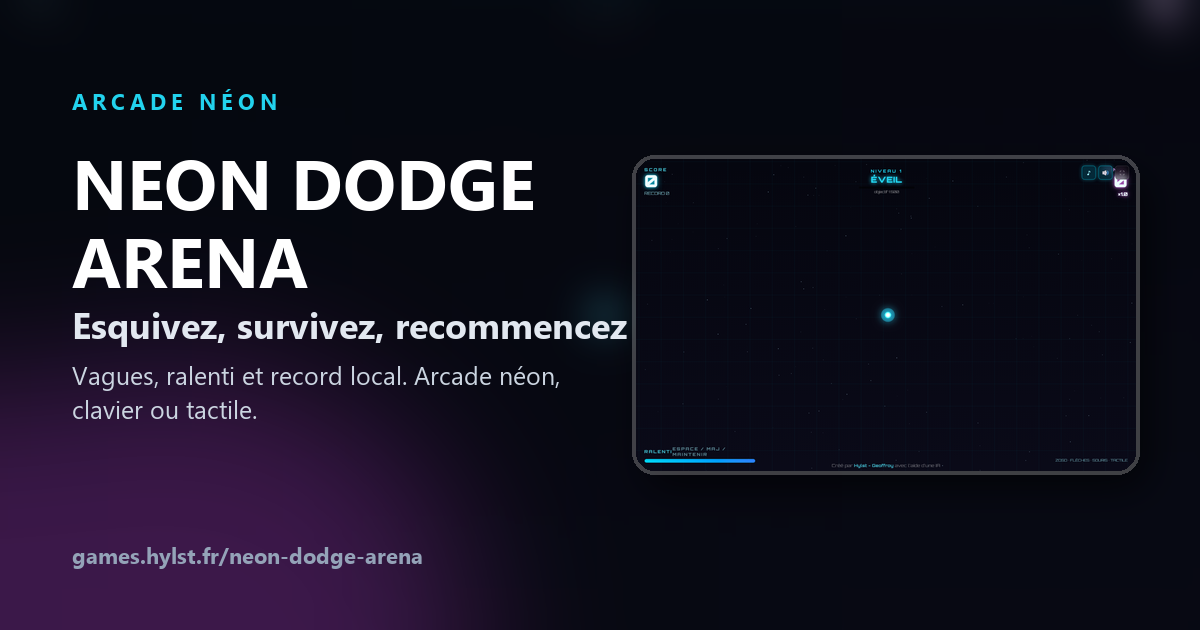
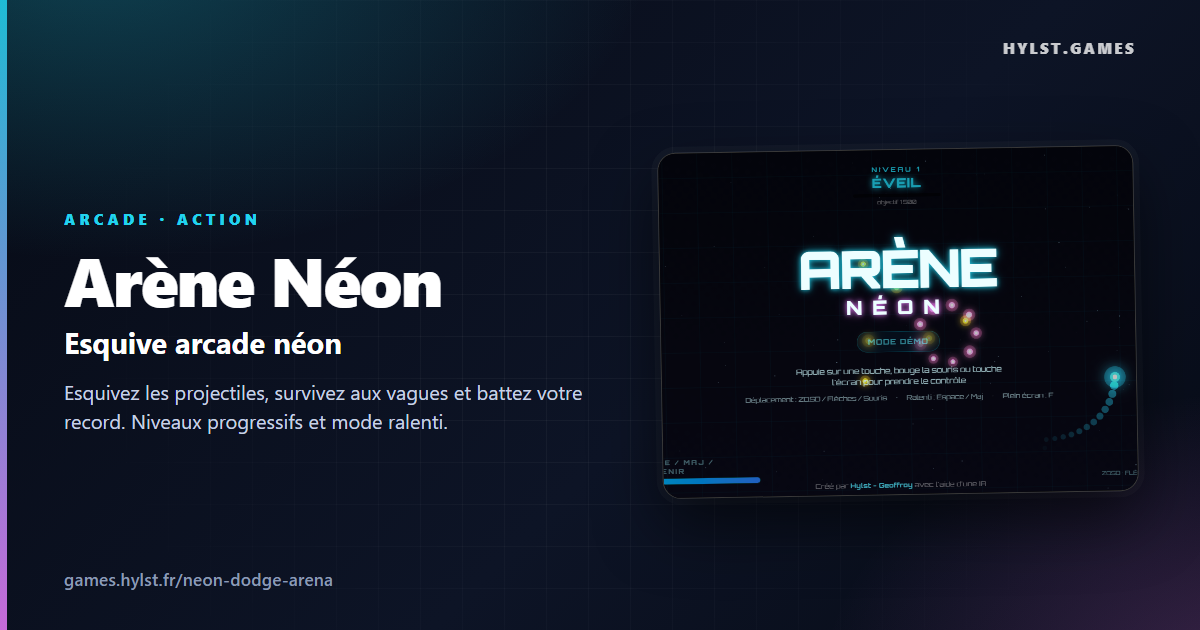
Renommage : Arène Néon

diff --git a/index.html b/index.html
@@ -3,20 +3,20 @@
   <head>
     <meta charset="UTF-8" />
     <meta name="viewport" content="width=device-width, initial-scale=1.0" />
-    <title>Neon Dodge Arena : esquive arcade néon</title>
-    <meta name="description" content="Neon Dodge Arena : esquivez les projectiles, survivez aux vagues et battez votre record. Arcade néon, niveaux progressifs et contrôle clavier ou tactile." />
+    <title>Arène Néon : esquive arcade</title>
+    <meta name="description" content="Arène Néon : esquivez les projectiles, survivez aux vagues et battez votre record. Arcade néon, niveaux progressifs et contrôle clavier ou tactile." />
     <meta name="keywords" content="neon dodge arena, esquive, arcade, shoot em up, vague, record, jeu gratuit, jeu français, hylst" />
     <meta property="og:type" content="website" />
-    <meta property="og:title" content="Neon Dodge Arena" />
+    <meta property="og:title" content="Arène Néon" />
     <meta property="og:description" content="Esquivez les projectiles, survivez aux vagues et battez votre record. Arcade néon." />
-    <meta property="og:image" content="https://games.hylst.fr/neon-dodge-arena/og-image.png" />
+    <meta property="og:image" content="https://games.hylst.fr/neon-dodge-arena/og-image.png?v=2" />
     <meta property="og:url" content="https://games.hylst.fr/neon-dodge-arena/" />
     <meta property="og:site_name" content="Hylst.Games" />
     <meta property="og:locale" content="fr_FR" />
     <meta name="twitter:card" content="summary_large_image" />
-    <meta name="twitter:title" content="Neon Dodge Arena" />
+    <meta name="twitter:title" content="Arène Néon" />
     <meta name="twitter:description" content="Esquivez les projectiles, survivez aux vagues et battez votre record. Arcade néon." />
-    <meta name="twitter:image" content="https://games.hylst.fr/neon-dodge-arena/og-image.png" />
+    <meta name="twitter:image" content="https://games.hylst.fr/neon-dodge-arena/og-image.png?v=2" />
     <meta name="robots" content="index, follow" />
     <meta name="theme-color" content="#070312" />
     <link rel="canonical" href="https://games.hylst.fr/neon-dodge-arena/" />
@@ -28,7 +28,7 @@
     <div id="root"></div>
     <noscript>
       <p style="margin: 2rem auto; max-width: 34rem; padding: 0 1rem; color: #e2e8f0; font: 16px/1.6 system-ui, sans-serif">
-        Neon Dodge Arena a besoin de JavaScript pour fonctionner. Activez-le puis rechargez la page.
+        Arène Néon a besoin de JavaScript pour fonctionner. Activez-le puis rechargez la page.
       </p>
     </noscript>
     <script type="module" src="/src/main.tsx"></script>

diff --git a/src/App.tsx b/src/App.tsx
@@ -1007,8 +1007,8 @@ export default function App() {
       {/* Overlay attract */}
       {ui.mode === "attract" && (
         <div className="pointer-events-none absolute inset-0 flex flex-col items-center justify-center bg-black/25 text-center">
-          <h1 className="neon-text-cyan mb-1 text-5xl font-black tracking-tighter sm:text-8xl">NEON DODGE</h1>
-          <h2 className="neon-text-fuchsia mb-6 text-2xl font-black tracking-[0.5em] sm:text-4xl">ARENA</h2>
+          <h1 className="neon-text-cyan mb-1 text-5xl font-black tracking-tighter sm:text-8xl">ARÈNE</h1>
+          <h2 className="neon-text-fuchsia mb-6 text-2xl font-black tracking-[0.5em] sm:text-4xl">NÉON</h2>
           <div className="animate-pulse rounded-full border border-cyan-400/40 bg-cyan-950/40 px-5 py-2 text-sm font-bold tracking-widest text-cyan-300 backdrop-blur-sm">
             MODE DÉMO
           </div>

diff --git a/README.md b/README.md
@@ -1,12 +1,12 @@
-# Neon Dodge Arena
+# Arène Néon
 
 **Esquivez les projectiles, survivez aux vagues et battez votre record.**
 
-Neon Dodge Arena est une arène d'esquive néon. Déplacez le vaisseau au clavier, à la souris ou au doigt, survivez aux vagues de projectiles et gagnez des points en restant en vie. Le mode ralenti se déclenche avec Espace, Maj ou un maintien tactile ; les niveaux s'enchaînent avec des objectifs croissants, des motifs de tir plus denses et des combos. Le record local est conservé dans le navigateur, le son et la musique sont synthétisés, et le plein écran est disponible.
+Arène Néon est une arène d'esquive néon. Déplacez le vaisseau au clavier, à la souris ou au doigt, survivez aux vagues de projectiles et gagnez des points en restant en vie. Le mode ralenti se déclenche avec Espace, Maj ou un maintien tactile ; les niveaux s'enchaînent avec des objectifs croissants, des motifs de tir plus denses et des combos. Le record local est conservé dans le navigateur, le son et la musique sont synthétisés, et le plein écran est disponible.
 
 Joue ici : [games.hylst.fr/neon-dodge-arena/](https://games.hylst.fr/neon-dodge-arena/)
 
-![Neon Dodge Arena](public/og-image.png)
+![Arène Néon](public/og-image.png)
 
 ## Fonctionnalités
 
